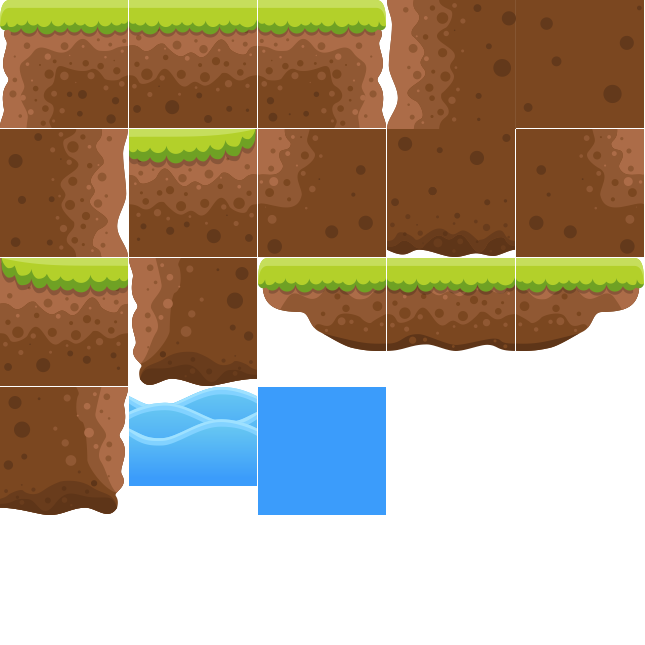
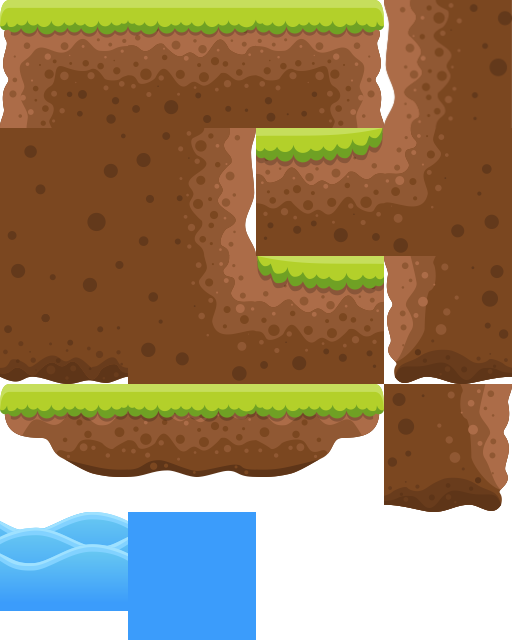
fixed tile spaces due to wrong dimention

diff --git a/game.py b/game.py
@@ -12,7 +12,6 @@ class Game:
         self.clock = pygame.time.Clock()
         self.sprite_groups = {
             "players": pygame.sprite.Group(),
-            "ground": pygame.sprite.Group()
         }
 
         self.players = []
@@ -32,15 +31,16 @@ class Game:
 
     def draw_background(self, screen):
 
+        # Draw the background image created from individual tiles
         screen.blit(self.background_image, (0,0))
-        image_count = Constants.WIDTH // 129 + 1
+
+        # Draw the terrain floor
+        image_count = Constants.WIDTH // Constants.TILE_SIZE + 1
         ground_image_path = os.path.join("assets", "terrain", "terrain.png")
-        image = ImageUtils.get_image_from_sprite_sheet(ground_image_path,129,0,129*2-1,129)
+        image = ImageUtils.get_image_from_sprite_sheet(ground_image_path, Constants.TILE_SIZE,0, Constants.TILE_SIZE*2, Constants.TILE_SIZE)
 
         for i in range(image_count):
-            screen.blit(image, (i * 128, Constants.HEIGHT - 129))
-
-
+            screen.blit(image, (i * image.get_width(), Constants.HEIGHT - image.get_height()))
 
     def handle_events(self):
 

diff --git a/utils/image_packer.py b/utils/image_packer.py
@@ -6,9 +6,9 @@ pygame.init()
 
 class ImagePacker:
 
-    SOURCE_FOLDER = 'D:/DEV/Python/learn/gamedev/BubbleCatcher/assets/tmpinput'
-    TARGET_FILE = '/assets/tmpoutput/terrain.png'
-    OUTPUT_COL = 5
+    SOURCE_FOLDER = 'C:/Users/f3953289/Downloads/FreeTileset/png/Tiles'
+    TARGET_FILE = 'C:/Users/f3953289/Downloads/terrain.png'
+    OUTPUT_COL = 4
     OUTPUT_ROW = 5
 
     def __init__(self):

diff --git a/constants.py b/constants.py
@@ -3,3 +3,4 @@ class Constants:
     WIDTH, HEIGHT = 1024, 768
     ASSETS_FOLDER = 'assets'
     PLAYER_GROUND_HEIGHT = 576
+    TILE_SIZE = 128
